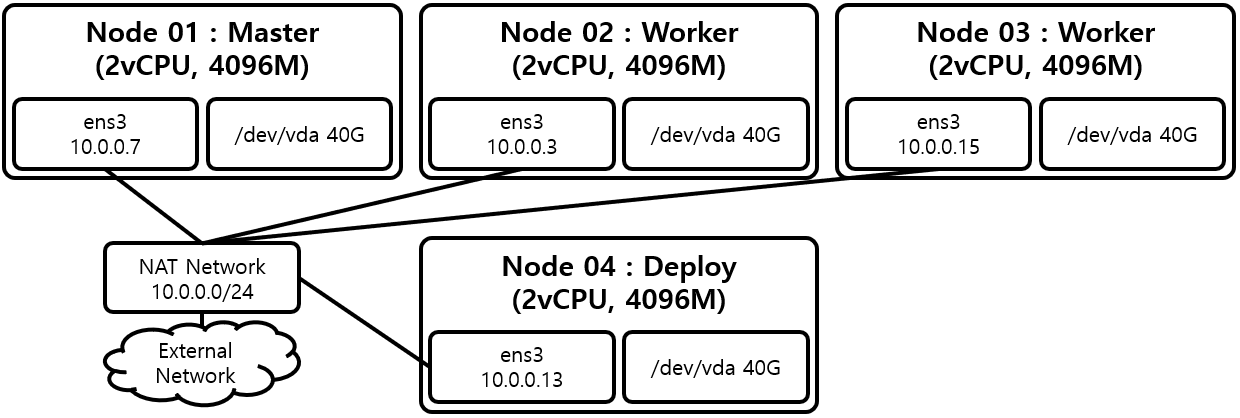
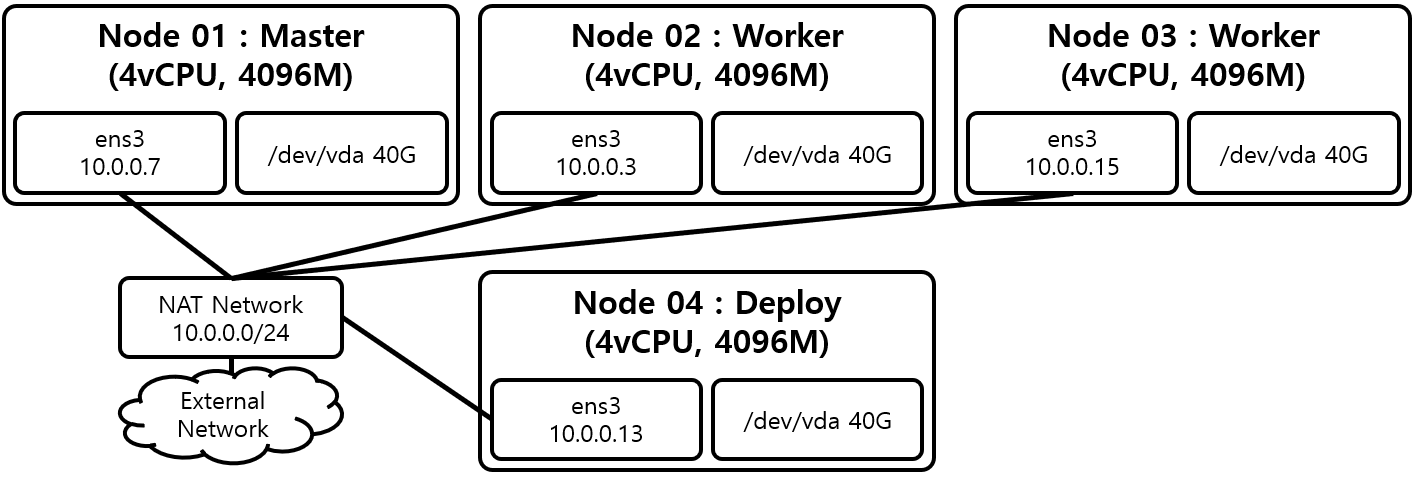
Update

diff --git a/_docs/record/Kubernetes_설치_kubespray_Ubuntu_18.04_OpenStack.md b/_docs/record/Kubernetes_설치_kubespray_Ubuntu_18.04_OpenStack.md
@@ -11,7 +11,7 @@ adsense: true
 
 ![[그림 1] Kubernetes 설치 환경]({{site.baseurl}}/images/record/Kubernetes_kubespray_Ubuntu_18.04_OpenStack/Environment.PNG)
 
-* VM : Ubuntu 18.04, 2 vCPU, 4GB Memory
+* VM : Ubuntu 18.04, 4 vCPU, 4GB Memory
   * Master Node * 1
   * Slave Node * 2
   * Deploy Node * 1
@@ -22,11 +22,8 @@ adsense: true
 ### 2. Ubuntu Package 설치
 
 ~~~
-(Deploy)# apt-get install software-properties-common
-(Deploy)# apt-add-repository ppa:ansible/ansible
 (Deploy)# apt-get update
 (Deploy)# apt-get install python3-pip
-(Deploy)# pip3 install -r requirements.txt
 ~~~
 
 Deploy Node에 Python을 설치한다.
@@ -60,9 +57,9 @@ The key's randomart image is:
 Deploy Node에서 ssh key를 생성한다. passphrase (Password)는 공백을 입력하여 설정하지 않는다. 설정하게 되면 Deploy Node에서 Managed Node로 SSH를 통해서 접근 할때마다 passphrase를 입력해야 한다.
 
 ~~~
-(Deploy)# ssh-copy-id root@node01
-(Deploy)# ssh-copy-id root@node02
-(Deploy)# ssh-copy-id root@node03
+(Deploy)# ssh-copy-id root@10.0.0.7
+(Deploy)# ssh-copy-id root@10.0.0.3
+(Deploy)# ssh-copy-id root@10.0.0.15
 ~~~
 
 Deploy Node에서 ssh-copy-id 명령어를 이용하여 생성한 ssh Public Key를 나머지 Node의 ~/.ssh/authorized_keys 파일에 복사한다.
@@ -70,11 +67,12 @@ Deploy Node에서 ssh-copy-id 명령어를 이용하여 생성한 ssh Public Key
 ### 4. kubespray 설정, 구동
 
 ~~~
-# git clone -b v2.10.4 https://github.com/kubernetes-sigs/kubespray.git
-# cd kubespray
-# cp -rfp inventory/sample inventory/mycluster
-# declare -a IPS=(10.0.0.7 10.0.0.3 10.0.0.15)
-# CONFIG_FILE=inventory/mycluster/hosts.yml python3 contrib/inventory_builder/inventory.py ${IPS[@]}
+(Deploy)# git clone -b v2.10.4 https://github.com/kubernetes-sigs/kubespray.git
+(Deploy)# cd kubespray
+(Deploy)# pip3 install -r requirements.txt
+(Deploy)# cp -rfp inventory/sample inventory/mycluster
+(Deploy)# declare -a IPS=(10.0.0.7 10.0.0.3 10.0.0.15)
+(Deploy)# CONFIG_FILE=inventory/mycluster/hosts.yml python3 contrib/inventory_builder/inventory.py ${IPS[@]}
 ~~~
 
 kubespray를 설치하고 기본설정을 진행한다.
@@ -130,8 +128,8 @@ export OS_AUTH_PLUGIN=password
 OpenStack 환경에 맞는 openstack-rc 파일을 생성한다.
 
 ~~~
-# source openstack-rc
-# ansible-playbook -i inventory/mycluster/hosts.yml --become --become-user=root cluster.yml
+(Deploy)# source openstack-rc
+(Deploy)# ansible-playbook -i inventory/mycluster/hosts.yml --become --become-user=root cluster.yml
 ~~~
 
 Kubernets Cluster를 구성한다.
@@ -141,7 +139,8 @@ Kubernets Cluster를 구성한다.
 ### 6. Kubernetes Cluster 초기화
 
 ~~~
-# ansible-playbook -i inventory/mycluster/hosts.yml --become --become-user=root reset.yml
+(Deploy)# source openstack-rc
+(Deploy)# ansible-playbook -i inventory/mycluster/hosts.yml --become --become-user=root reset.yml
 ~~~
 
 Kubernetes Cluster를 초기화한다.
